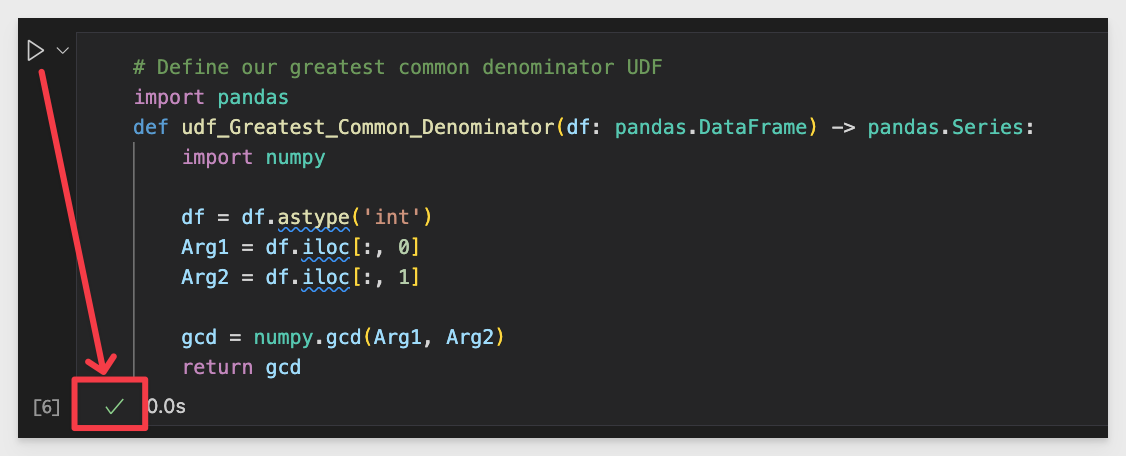
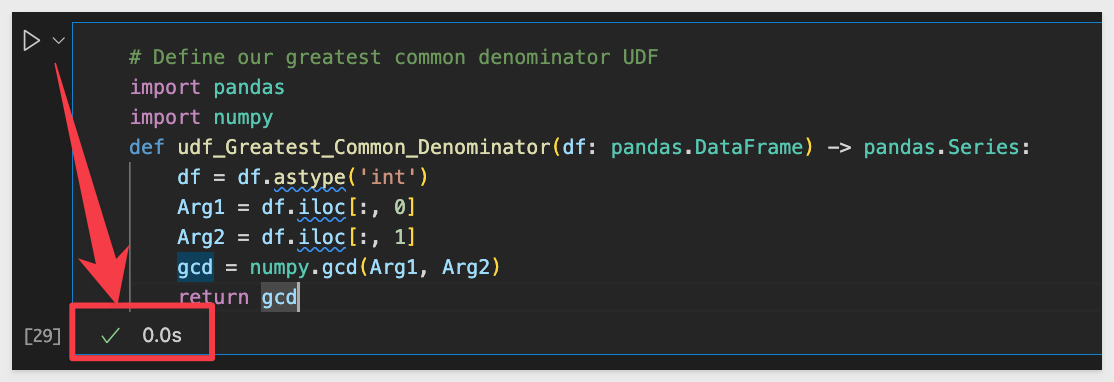
in process

Changed region(s): [[0.0, 0.0288, 1.0, 0.9791], [0.0916, 0.1152, 0.6104, 0.1728]]

diff --git a/site/sigmaguides/src/snowflake_snowpark_udf_python/snowflake_snowpark_udf_python.md b/site/sigmaguides/src/snowflake_snowpark_udf_python/snowflake_snowpark_udf_python.md
@@ -3,10 +3,9 @@ id: snowflake_snowpark_udf_python
 summary: snowflake_snowpark_udf_python
 categories: snowflake
 environments: web
-status: Published
+status: Hidden
 feedback link: https://github.com/sigmacomputing/sigmaquickstarts/issues
 tags: Getting Started, Analytics, Data Engineering, BI, Business Intelligence, Sigma, Sigma Computing, Snowflake, Dashboarding, Visualization, Analysis, Excel, Spreadsheet, Embedding
-
 
 # Snowpark UDF's with Python
 <!-- The above name is what appears on the website and is searchable. -->
@@ -230,11 +229,13 @@ conda activate snowpark
 
 <img src="assets/sp9.png" width="800"/>
 
-The only package our simple UDF will require is called `pandas`.
+The only package our UDF will require is called `pandas`m which includes several dependant packages.
 
 <aside class="negative">
 <strong>NOTE:</strong><br> Pandas is a popular open-source data analysis library for Python that provides powerful and easy-to-use data structures and data analysis tools. It is widely used in data science and data analytics to manipulate and analyze data in various formats such as CSV, Excel, SQL databases, and more.
 </aside>
+
+[Readme more about Panda here.](https://pandas.pydata.org/)
 
  Run the command to install `pandas` in our `snowpark` environment:
 ```plaintext
@@ -245,7 +246,7 @@ As before, when prompted to proceed, press `y` and hit enter:
 
 <img src="assets/sp10.png" width="800"/>
 
-The installation of pandas also installed many other dependencies. One is called `numpy` and we will also use this in our project later but do not need to install it again.
+The installation of pandas also installed many other dependencies. One is called `NumPy` and we will also use this in our project later but do not need to install it again.
 
 <aside class="negative">
 <strong>NOTE:</strong><br> NumPy is a numerical computing package for Python that provides support for large, multi-dimensional arrays and matrices, along with a large library of mathematical functions to operate on these arrays.
@@ -299,17 +300,14 @@ Make sure that the Python Interpreter selected in blue is `snowpark`, indicating
 <strong>NOTE:</strong><br> It is possible to change the default but that is a distraction and we want to just start building.
 </aside>
 
-We are now setup to start developing our Snowpark UDF.
+We are now setup to get connected to Snowflake from VSCode.
 
 ![Footer](assets/sigma_footer.png)
 <!-- END OF NEXT SECTION-->
 
-## **My First UDF**
+## **VSCode with Jupyter Notebooks**
 Duration: 20
 
-For our first UDF, we will use the NumPy package to create a UDF in Snowpark that can be later called by Sigma by name. We will keep this very simple and calculate the greatest common denominator (GCD) between two input values.
-
-GCD is not a Sigma function (today) so calculating that in Sigma requires more effort that we would want. A UDF that is shared and can be called by any Sigma user, using the Sigma user interface directly, is highly desireable.
 
 Part of the VSCode with Python includes `Jupyter Notebooks`. 
 
@@ -356,9 +354,16 @@ After the install is done (maybe 20 seconds), the quick test produces a positive
 
 Now that we are sure that 1+1 = 2, we can move on. 
 
+
+![Footer](assets/sigma_footer.png)
+<!-- END OF NEXT SECTION-->
+
+## **Connect to Snowflake**
+Duration: 20
+
 Click the add a new `codeblock` (+Code).
 
-Copy this code into the new block:
+Copy this code into the new codeblock:
 ```plaintext
 # SNOWFLAKE AUTHENTICATION
 from snowflake.snowpark import Session
@@ -388,63 +393,98 @@ After you have configured the required values, run this codeblock as usual. We s
 
 <img src="assets/sp18.png" width="800"/>
 
-Now that we are connected, we want to create another codeblock to define our greatest common denominator (GCD) UDF.
+Before we move on, some words about Snowflake Role requirements for working with UDFs. We are using the Role `ACCOUNTADMIN` just to avoid some additional configuration steps but this is not best practice. 
 
-In a new codeblock, copy and paste this code:
+To publish a user-defined function (UDF) in Snowflake, you need (minimally) the "USAGE" privilege on the database and schema where the function is located, as well as the "CREATE FUNCTION" privilege.
+
+The "USAGE" privilege allows you to execute the UDF, while the "CREATE FUNCTION" privilege enables you to create, alter, and drop functions.
+
+Note that the user who creates the UDF automatically gets the "USAGE" and "CREATE FUNCTION" privileges on that function, but other users or roles need to be explicitly granted these privileges.
+
+[More information on granting privileges for UDFs is available here.](https://docs.snowflake.com/en/sql-reference/udf-access-control)
+
+![Footer](assets/sigma_footer.png)
+<!-- END OF NEXT SECTION-->
+
+
+## **My First UDF**
+Duration: 20
+
+For our first UDF, we will create a simple (think "Hello World-like") UDF in Snowflake that can be later called with Sigma by name.
+
+Our UDF will calculate the greatest common denominator (GCD) between two input values, using the NumpPy package.
+
+GCD is not a Sigma function (today) so calculating that in Sigma requires more effort than we would want. A UDF that is shared and can be called by any Sigma user, using the Sigma user interface directly, is highly desireable.
+
+Now that VSCode is connected to Snowflake, we want to create another codeblock. This code defines our UDF which calculates the greatest common denominator (GCD) of two input numbers, in a Pandas DataFrame. 
+
+<aside class="positive">
+<strong>What is a Panda DataFrame?</strong><br> A Pandas DataFrame is a two-dimensional labeled data structure that is used for data manipulation and analysis in Python. It is part of the Pandas library, which is a powerful and popular library for data analysis and manipulation.
+</aside>
+
+[Panda documentation is here:](https://pandas.pydata.org/docs/user_guide/dsintro.html)
+
+### Define our greatest common denominator (GCD) UDF:
+
+In a new codeblock, copy and paste this code, which defines our GCD UDF:
 ```plaintext
 # Define our greatest common denominator UDF
-def udf_Greatest_Common_Denominator(df: pd.DataFrame) -> pd.Series:
-    import pandas as pd
-    import numpy
-    
+import pandas
+import numpy
+def udf_Greatest_Common_Denominator(df: pandas.DataFrame) -> pandas.Series:
     df = df.astype('int')
     Arg1 = df.iloc[:, 0]
     Arg2 = df.iloc[:, 1]
-
     gcd = numpy.gcd(Arg1, Arg2)
     return gcd
 ```
 
-This code defines a user-defined function (UDF) in Python that calculates the greatest common denominator (GCD) of two numbers in a Pandas DataFrame. 
+Here is a breakdown of what each line of the code does:
 
-Here is a breakdown of each line of the code:
-
+**1: This is a comment that describes what the following code does.**
 ```plaintext
-# Define our greatest common denominator UDF:
+# Define our greatest common denominator UDF
 ```
-This is a comment that describes what the following code does.
+<img src="assets/horizonalline.png" width="800"/>
 
+**2: These two lines imports the panda and NumPy packages which provides a gcd function that we will use to calculate the GCD. While we already have them installed in our local environment, they are not going to exist on our Snowpark instance for this UDF unless we specify to import it when the UDF is defined.**
 ```plaintext
-def udf_Greatest_Common_Denominator(df: pd.DataFrame) -> pd.Series:
-```
-This line defines the UDF called udf_Greatest_Common_Denominator, which takes a single argument df of type pd.DataFrame, and returns a pd.Series object. The UDF expects a DataFrame with two columns containing the two numbers for which to compute the GCD.
-
-```plaintext
-import pandas as pd
+import pandas
 import numpy
 ```
-This line imports the panda and numpy libraries which provides a gcd function that we will use to calculate the GCD. While we already have numpy installed in our local environment, it is not going to exist on our Snowpark instance for this UDF unless we specify to import it when the UDF is defined.
+<img src="assets/horizonalline.png" width="800"/>
 
+**3: This line defines the UDF called udf_Greatest_Common_Denominator, which takes a single argument df of type pd.DataFrame, and returns a pd.Series object.**
+```plaintext
+def udf_Greatest_Common_Denominator(df: pandas.DataFrame) -> pandas.Series:
+```
+<img src="assets/horizonalline.png" width="800"/>
+
+**4:This line converts the DataFrame df to an integer data type.**
 ```plaintext
 df = df.astype('int')
 ```
-This line converts the DataFrame df to an integer data type.
+<img src="assets/horizonalline.png" width="800"/>
 
+
+**5: These two lines extract the first and second columns of the DataFrame df and assign them to Arg1 and Arg2, respectively.**
 ```plaintext
 Arg1 = df.iloc[:, 0]
 Arg2 = df.iloc[:, 1]
 ```
-These two lines extract the first and second columns of the DataFrame df and assign them to Arg1 and Arg2, respectively.
+<img src="assets/horizonalline.png" width="800"/>
 
+**6: This line uses the numpy.gcd function to calculate the GCD of Arg1 and Arg2, and assigns the result to the variable gcd.**
 ```plaintext
 gcd = numpy.gcd(Arg1, Arg2)
 ```
-This line uses the numpy.gcd function to calculate the GCD of Arg1 and Arg2, and assigns the result to the variable gcd.
+<img src="assets/horizonalline.png" width="800"/>
 
+**7: This line returns the GCD value as a pd.Series object from the UDF.**
 ```plaintext
 return gcd
 ```
-This line returns the GCD value as a pd.Series object from the UDF.
+<img src="assets/horizonalline.png" width="800"/>
 
 Now that it is all explained, run the codeblock.
 
@@ -452,12 +492,12 @@ As before, we should see a green checkmark:
 
 <img src="assets/sp19.png" width="800"/>
 
-### Register the Function in Snowflake
+### Register the GCD function in Snowflake
 
 Our new UDF takes in two float arguments (the two columns in which to find the smallest common denominator against), so we need to specify that in the registrations using the `input_types` as:
 ```plaintext
  [T.FloatType()]*2 
-```
+
 
 Copy this code to a new codeblock in VSCode:
 ```plaintext
@@ -470,15 +510,15 @@ udf_Greatest_Common_Denominator = session.udf.register(func=udf_Greatest_Common_
     replace=True,
     max_batch_size =  1000,
     is_permanent=True, 
-    packages=['numpy','pandas'],
+    packages=['NumPy','pandas'],
     comment = "Algorithm to find Greatest Common Denominator",
     session=session)
 ```
-Some things to note:
+**Some things to note:**
 
-1: Note that we had to specify the numpy and pandas libraries. <br><br>
-2: We gave it a name `GCD_UDF`. We will call this UDF by that name from Sigma later.<br><br>
-3: We have to make the registered UDF available to the Snowflake connection that is being used in Sigma.<br>
+**1:** We have to specify the NumPy and Pandas packages. <br>
+**2:** We decided to name it `GCD_UDF`. We will call this UDF by that name from Sigma later.<br>
+**3:** We have to make the registered UDF available to the Snowflake connection that is being used in Sigma. We will do that in a bit.
 
 Run the codeblock. It will likely fail: 
 
@@ -491,11 +531,11 @@ In a Snowflake **SQL Worksheet**, run this command using the warehouse and datab
 CREATE STAGE IF NOT EXISTS My_UDFS
 ```
 
-<img src="assets/sp20.png" width="800"/>
+<img src="assets/sp22.png" width="800"/>
 
 After creating the required Snowflake Stage, re-run takes a bit longer (17 seconds...a lifetime!) to run:
 
-<img src="assets/sp22.png" width="800"/>
+<img src="assets/sp20.png" width="800"/>
 
 Lastly, we need to register the UDF (item #3 on the list) by running this code in a new VSCode codeblock:
 ```plaintext
@@ -512,22 +552,49 @@ query.collect()
 ## **UDF in Sigma**
 Duration: 20
 
+Login into Sigma and select `Create New` and then `Workbook`.
 
+In the new Workbook, click `+` to add a new `Table`.
 
+Select a source of `WRITE SQL`:
 
-<img src="assets/sp19.png" width="800"/>
+<img src="assets/sp24.png" width="800"/>
 
+We need to select a connection for our custom SQL and want to use the Snowflake connection that we used in VSCode since that is where our UDF is published.
 
+Once you have selected your connection, copy and paste the following SQL script in the codeblock.
 
-![Footer](assets/sigma_footer.png)
-<!-- END OF NEXT SECTION-->
+This script will generate 100 rows with two columns of random numbers between 1 and 100 (and an Id column) that we will use as inputs to our GCD UDF.
 
+```plaintext
+SELECT 
+  ROW_NUMBER() OVER (ORDER BY RANDOM()) AS id,
+  uniform(1, 100, random()) AS Min,
+  uniform(1, 100, random()) AS Max
+FROM
+  TABLE(GENERATOR(ROWCOUNT => 100))
+```
 
-### Optional Section
+Run the command and observe the results:
 
-For this next demonstration, we will create a Snowpark Dataframe and use 
+<img src="assets/sp25.png" width="800"/>
 
+Now click `Done`. 
 
+Back in the Workbook, click the `Max` column and select `Add new column` and rename it `GCD`:
+
+<img src="assets/sp26.png" width="800"/>
+
+In the formula bar for the new column copy and paste this formula and click the checkmark to accept it:
+```plaintext
+CallNumber("SE_INTERNAL_DB.SCHEMA_PHIL_BALLAI.GCD_UDF", [Min], [Max])
+```
+
+We now can see the UDF has calculated the greatest common denominator between the `Min` and `Max` columns in the `GCD` column.
+
+<img src="assets/sp27.png" width="800"/>
+
+Congratulations; you have now created and used Snowflake Snowpark UDF in Sigma using Python. 
 
 ![Footer](assets/sigma_footer.png)
 <!-- END OF NEXT SECTION-->
